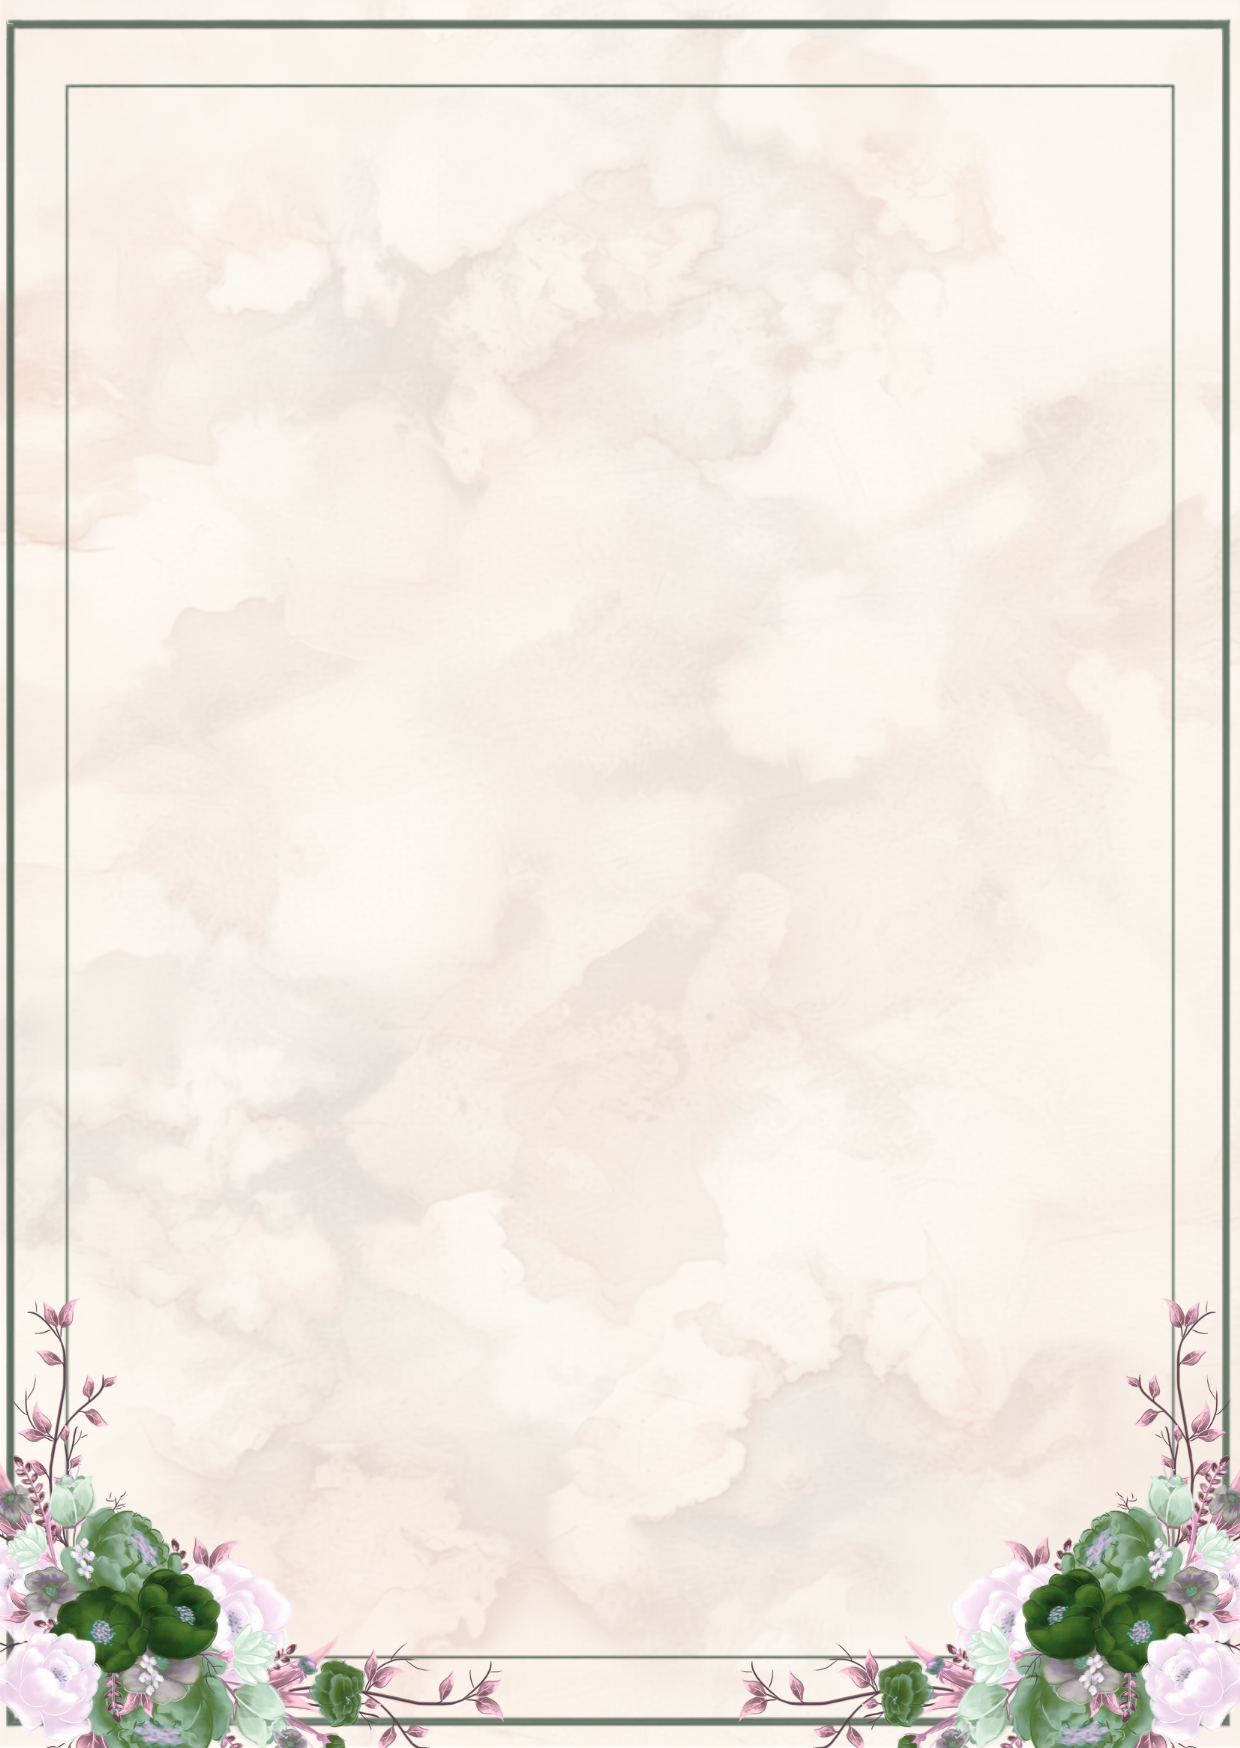
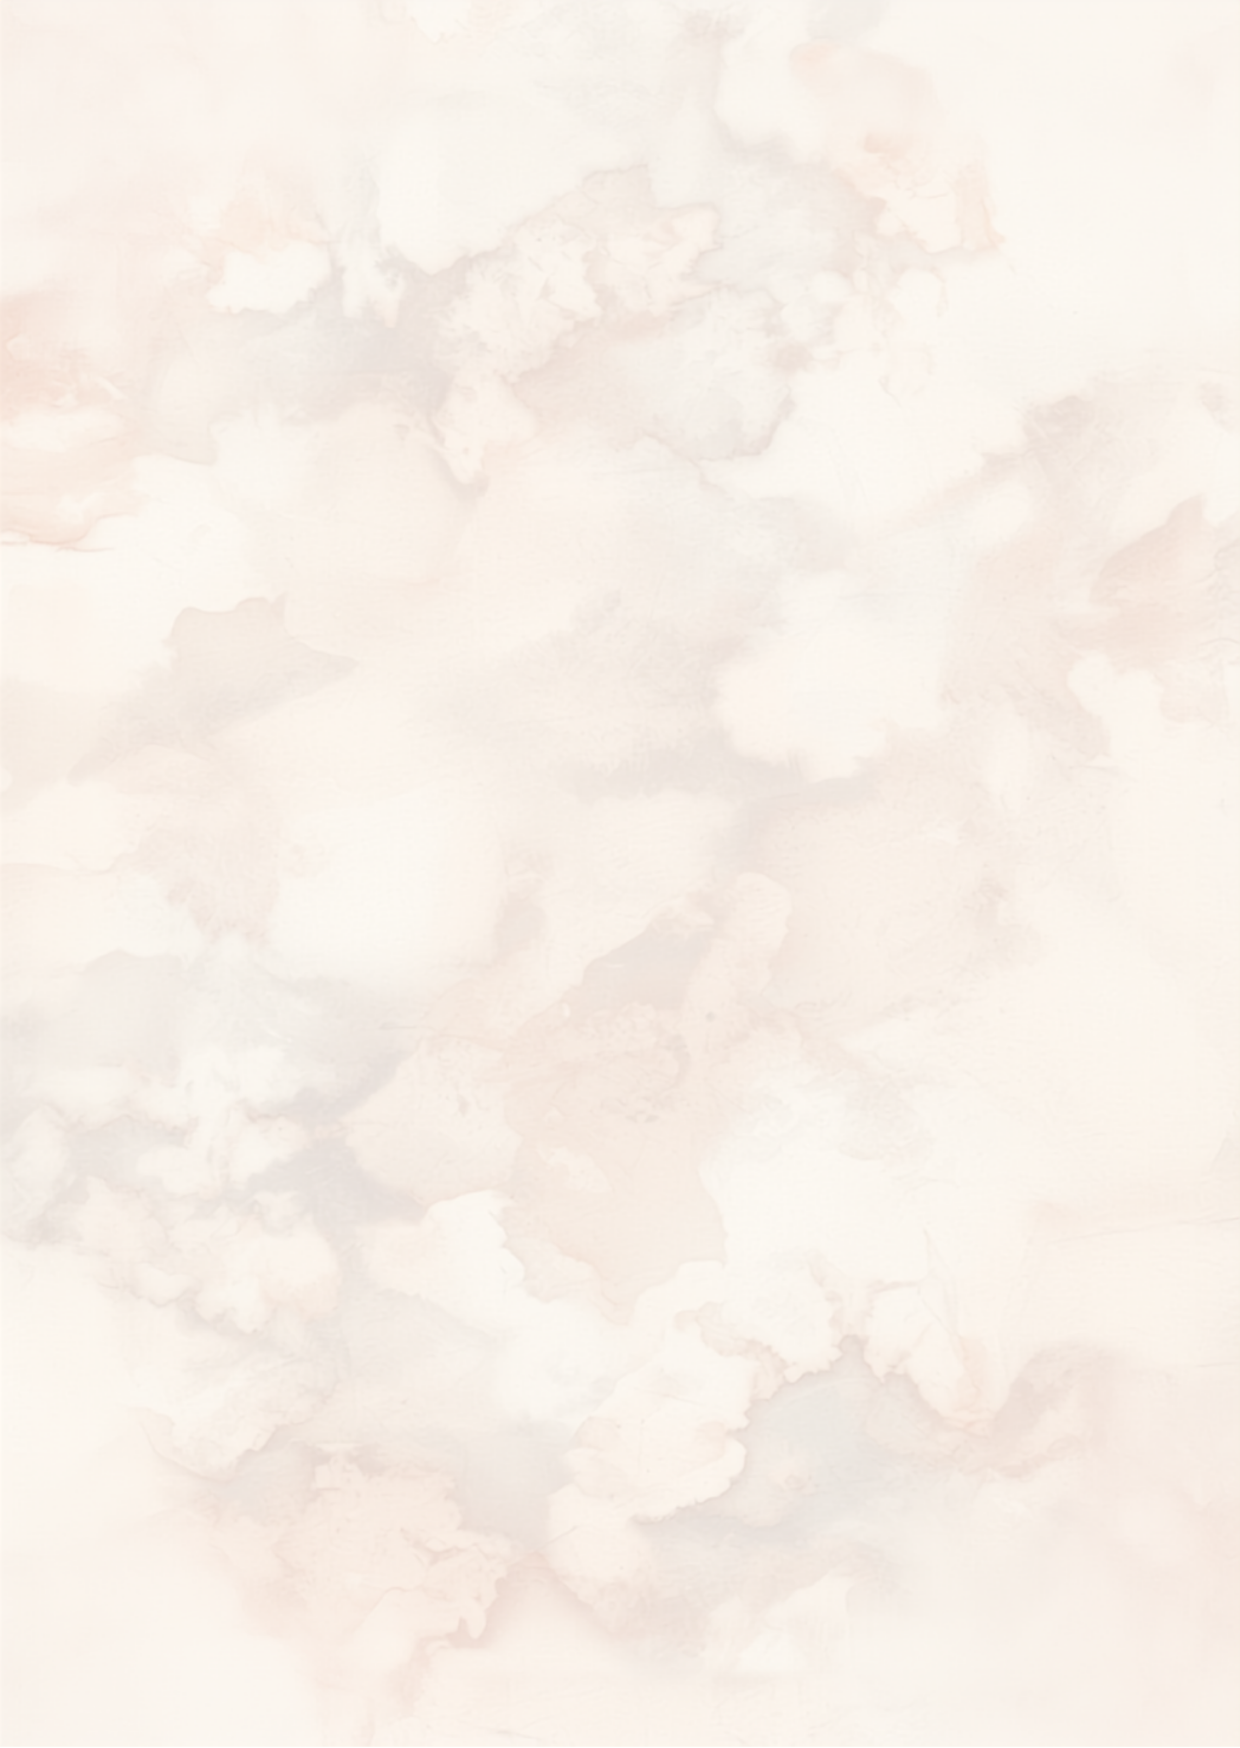
ajustes en los elementos del fondo

Changed region(s): [[0.0, 0.0, 1.0, 1.0]]

diff --git a/index.html b/index.html
@@ -20,6 +20,7 @@
     <!-- 1. PORTADA -->
     <section class="screen active" id="cover" data-screen="cover" aria-label="Portada">
       <img class="layer" src="assets/Fondo.png" alt="" aria-hidden="true">
+      <img class="layer" src="assets/EsquinasFlorales.png" alt="" aria-hidden="true">
       <div class="content content--cover">
         <p class="eyebrow">Abrir</p>
         <button class="envelope-btn" id="openEnvelope" type="button" aria-label="Abrir invitación">
@@ -31,6 +32,7 @@
     <!-- 2. PRESENTACIÓN -->
     <section class="screen" id="presentacion" data-screen="presentacion" aria-label="Presentación">
       <img class="layer" src="assets/Fondo.png" alt="" aria-hidden="true">
+      <img class="layer" src="assets/EsquinasFlorales.png" alt="" aria-hidden="true">
       <img class="layer layer--icon" src="assets/Logo.png" alt="XV Años">
       <button class="back-chevron" data-nav="cover" type="button" aria-label="Volver a portada">‹</button>
       <div class="content content--presentacion">
@@ -45,6 +47,7 @@
     <!-- 3. MENSAJE -->
     <section class="screen" id="mensaje" data-screen="mensaje" aria-label="Mensaje de la quinceañera">
       <img class="layer" src="assets/Fondo.png" alt="" aria-hidden="true">
+      <img class="layer" src="assets/EsquinasFlorales.png" alt="" aria-hidden="true">
       <button class="back-chevron" data-nav="presentacion" type="button" aria-label="Volver">‹</button>
       <div class="content content--text">
         <p class="message-text">
@@ -61,6 +64,7 @@
     <!-- 4. MENÚ PRINCIPAL -->
     <section class="screen" id="menu" data-screen="menu" aria-label="Menú principal">
       <img class="layer" src="assets/Fondo.png" alt="" aria-hidden="true">
+      <img class="layer" src="assets/EsquinasFlorales.png" alt="" aria-hidden="true">
       <div class="content content--menu">
         <h2 class="script-lg menu-title">Menú principal</h2>
         <nav class="menu-list">
@@ -77,6 +81,7 @@
     <!-- 5. FECHA -->
     <section class="screen" id="fecha" data-screen="fecha" aria-label="Fecha del evento">
       <img class="layer" src="assets/Fondo.png" alt="" aria-hidden="true">
+      <img class="layer" src="assets/EsquinasFlorales.png" alt="" aria-hidden="true">
       <button class="back-chevron" data-nav="menu" type="button" aria-label="Volver al menú">‹</button>
       <div class="content content--text">
         <p class="message-text message-text--sm">
@@ -93,6 +98,7 @@
     <!-- 6. CUENTA REGRESIVA -->
     <section class="screen" id="cuenta-regresiva" data-screen="cuenta-regresiva" aria-label="Cuenta regresiva">
       <img class="layer" src="assets/Fondo.png" alt="" aria-hidden="true">
+      <img class="layer" src="assets/EsquinasFlorales.png" alt="" aria-hidden="true">
       <div class="content content--countdown">
         <p class="script-lg">Faltan</p>
         <div class="countdown" id="countdown" aria-live="polite">
@@ -111,6 +117,7 @@
     <!-- 7. MISA -->
     <section class="screen" id="misa" data-screen="misa" aria-label="Misa">
       <img class="layer" src="assets/Fondo.png" alt="" aria-hidden="true">
+      <img class="layer" src="assets/EsquinasFlorales.png" alt="" aria-hidden="true">
       <div class="content content--info">
         <h2 class="script-lg">Misa</h2>
         <p class="time-big">4:00 PM</p>
@@ -134,6 +141,7 @@
     <!-- 8. RECEPCIÓN -->
     <section class="screen" id="recepcion" data-screen="recepcion" aria-label="Recepción">
       <img class="layer" src="assets/Fondo.png" alt="" aria-hidden="true">
+      <img class="layer" src="assets/EsquinasFlorales.png" alt="" aria-hidden="true">
       <div class="content content--info">
         <h2 class="script-lg">Recepción</h2>
         <p class="time-big">6:30 PM</p>
@@ -157,6 +165,7 @@
     <!-- 9. REGALO -->
     <section class="screen" id="regalo" data-screen="regalo" aria-label="Regalo">
       <img class="layer" src="assets/Fondo.png" alt="" aria-hidden="true">
+      <img class="layer" src="assets/EsquinasFlorales.png" alt="" aria-hidden="true">
       <div class="content content--regalo">
         <h2 class="script-lg">Regalo</h2>
         <img class="gift-envelope" src="assets/sobre.png" alt="Sobre decorativo con sello de cera">
@@ -174,6 +183,7 @@
     <!-- 10. CÓDIGO DE VESTIMENTA -->
     <section class="screen" id="vestimenta" data-screen="vestimenta" aria-label="Código de vestimenta">
       <img class="layer" src="assets/Fondo.png" alt="" aria-hidden="true">
+      <img class="layer" src="assets/EsquinasFlorales.png" alt="" aria-hidden="true">
       <img class="layer layer--icon" src="assets/Traje.png" alt="Ilustración de vestido y traje formal">
       <div class="content content--vestimenta">
         <h2 class="script-lg">Código de vestimenta</h2>
@@ -194,6 +204,7 @@
     <!-- 11. CONFIRMAR ASISTENCIA -->
     <section class="screen" id="confirmar" data-screen="confirmar" aria-label="Confirmar asistencia">
       <img class="layer" src="assets/Fondo.png" alt="" aria-hidden="true">
+      <img class="layer" src="assets/EsquinasFlorales.png" alt="" aria-hidden="true">
       <div class="content content--text">
         <h2 class="script-lg">Confirmar asistencia</h2>
         <p class="message-text message-text--sm">

diff --git a/css/styles.css b/css/styles.css
@@ -446,24 +446,28 @@ html, body {
   }
 }
 
-/* Fondo.png's own double-line border sits only ~1%/5% in from its edges,
-   while phones need far more than that cropped off the sides to fill the
-   screen (see .layer's object-fit: cover above) — so the side lines get
-   cropped away entirely. These redraw them at a fixed distance from the
-   TRUE screen edges, matching the image's own line weight/color/spacing,
-   so the frame reads as complete again. Top/bottom aren't cropped, so
-   the image's own lines already show there — these just overlay them
-   (same position, same look, harmless). Desktop never crops, so it's
-   unused there. */
-.frame-border { display: none; }
-@media (max-width: 640px) {
-  .frame-border {
-    display: block;
-    position: absolute;
-    z-index: 1;
-    pointer-events: none;
-    border: 1.5px solid rgba(63, 92, 66, 0.5);
-  }
-  .frame-border--outer { inset: 1.3% 0.8%; }
-  .frame-border--inner { inset: 4.8% 5.3%; border-width: 1px; }
+/* Fondo.png is now the plain marble texture only — the border isn't part
+   of any asset, it's drawn here. Always on: mobile crops the texture's
+   sides to fill the screen (see .layer's object-fit: cover above), and
+   desktop has no baked-in border to fall back on either now that
+   Fondo.png ships without one. */
+.frame-border {
+  position: absolute;
+  z-index: 1;
+  pointer-events: none;
+  border-style: solid;
+  border-color: rgba(63, 92, 66, 0.55);
+}
+/* Outer: a bold edge close to the true border of the screen/card. */
+.frame-border--outer {
+  inset: 1.3% 0.8%;
+  border-width: 3px;
+}
+/* Inner: positioned with the same cqw unit .content uses for its own
+   padding (9cqw sides, ~9-12cqw top/bottom depending on the screen), so
+   this line sits right where the text/buttons actually start instead of
+   at an arbitrary percentage. */
+.frame-border--inner {
+  inset: 9cqw;
+  border-width: 1.5px;
 }
